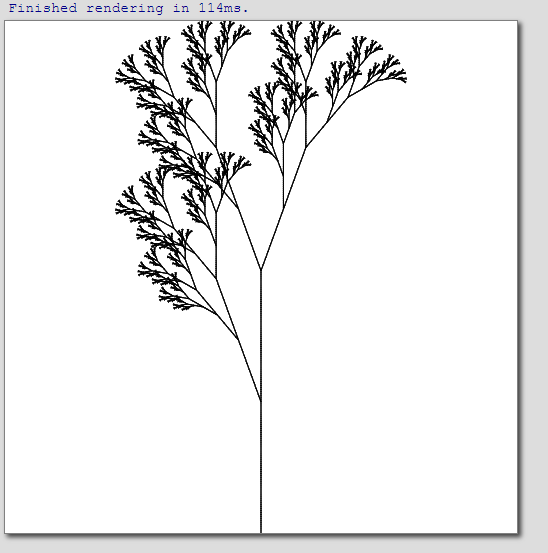
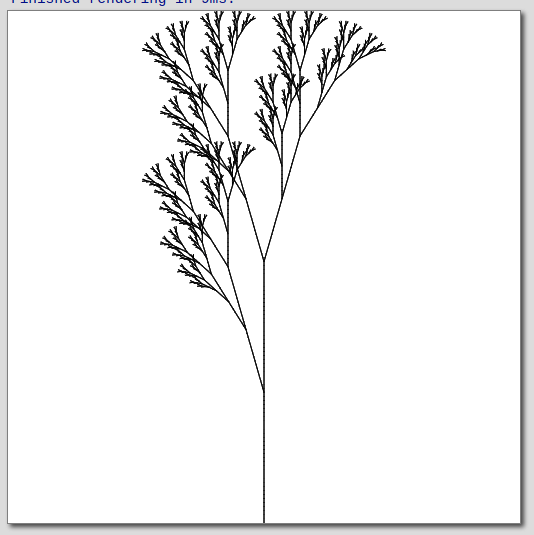
Add major angle pre-calculation.

Changed region(s): [[0.0, 0.0, 0.9888, 1.0]]

diff --git a/find_matches.py b/find_matches.py
@@ -8,42 +8,32 @@ from match_structures import *
 from image_similarity import is_sample_in_image
 
 _POSSIBLE_MOVES = [(-1, 0), (1, 0), (0, -1), (0, 1)]
-_RANGE_THETA = [-25, 0, 25]
-_RANGE_SCALE = [0.5]
+_RANGE_SCALE = [0.33, 0.5]
 
 
-def find_matches_at_point(image_src, x_start, y_start, threshold):
+_FOUND_SCALE = []
+_FOUND_D_THETA = []
+
+
+def find_matches_at_point(image_src, x_start, y_start, threshold, angle_range):
+    global _FOUND_SCALE
+    global _FOUND_D_THETA
     matches = []
     bottom_center = x_start, y_start
-    for theta in _RANGE_THETA:
-        for scale in _RANGE_SCALE:
-            sub_img = subimage_best(image_src, bottom_center, theta, scale)
-            score = is_sample_in_image(image_src, sub_img)
-            if score > threshold:
-                matches.append(Match(theta, scale, score))
+    for scale in _FOUND_SCALE or _RANGE_SCALE:
+        for theta in angle_range:
+            for d_theta in _FOUND_D_THETA or np.arange(-2.0, 2.0, 1.0):
+                sub_img = subimage_best(image_src, bottom_center, theta + d_theta, scale)
+                score = is_sample_in_image(image_src, sub_img)
+                if score > threshold:
+                    matches.append(Match(theta + d_theta, scale, score))
+                    if not _FOUND_SCALE:
+                        _FOUND_SCALE = [scale]
+                        _FOUND_D_THETA = [d_theta]
+                        print("Scale = {}".format(scale))
+                        print("Theta = {}".format(theta))
+                        break
     return matches
-
-
-# def bypass(image_src, visited, matches, back_color, x, y):
-#     h, w = image_src.shape[:2]
-#     if x < 0 or y < 0 or x >= w or y >= h:
-#         return
-#     if visited[y, x] == 1:
-#         return
-#     if image_src[y, x] != back_color:
-#         visited[y, x] = 1
-#         show_debug_image("Visited", visited, matches, (x, y), wait_time=1)
-#         is_sub_img, theta, scale = find_elem(image_src, x, y)
-#         if is_sub_img:
-#             matches[y, x] = 1
-#             if theta > 0:
-#                 l_system1.append("+")
-#             elif theta < 0:
-#                 l_system1.append("-")
-#             l_system1.append("X")
-#             ######## TO DO : search in the frame ##########
-#         for (dy, dx) in _POSSIBLE_MOVES:
-#             bypass(image_src, visited, matches, back_color, x + dx, y + dy)
 
 
 def valid_position(p, image, background_color, visited):
@@ -52,7 +42,7 @@ def valid_position(p, image, background_color, visited):
     return 0 <= y < h and 0 <= x < w and visited[p] == 0 and image[p] != background_color
 
 
-def search_matches(image_src, start, back_color, similarity_threshold, visual=False):
+def search_matches(image_src, start, back_color, similarity_threshold, angle_range, visual=False):
     visited = np.zeros(image_src.shape[:2])
     match_mask = np.zeros(image_src.shape[:2])
     distances = -np.ones(image_src.shape[:2])
@@ -70,7 +60,7 @@ def search_matches(image_src, start, back_color, similarity_threshold, visual=Fa
         y, x = q.popleft()
         if visual:
             show_debug_image("Visited", visited, match_mask, (x, y), wait_time=1)
-        point_matches = find_matches_at_point(image_src, x, y, similarity_threshold)
+        point_matches = find_matches_at_point(image_src, x, y, similarity_threshold, angle_range)
         if point_matches:
             match_mask[y, x] = 1
             matches[(y,x)] = point_matches
@@ -93,10 +83,23 @@ def find_start(image_src):
     return h-1, x
 
 
-def process_image(input_image, background_color=255, similarity_threshold=0.8, dump_folder=None, visual=False):
+def generate_angle_range(angle):
+    angle_range = [0]
+    current_angle = angle
+    while current_angle < 90:
+        angle_range.insert(0, -current_angle)
+        angle_range.append(current_angle)
+        current_angle += angle
+    return angle_range
+
+
+def process_image(input_image, background_color=255, similarity_threshold=0.7, dump_folder=None, visual=False):
     image_src = load_image(input_image)
     start = find_start(image_src)
-    match_structures, dbg_image = search_matches(image_src, start, background_color, similarity_threshold)
+    major_theta = calculate_major_angle(image_src)
+    angle_range = generate_angle_range(major_theta)
+    print(angle_range)
+    match_structures, dbg_image = search_matches(image_src, start, background_color, similarity_threshold, angle_range, visual=visual)
 
     if dump_folder:
         dump_structures(dump_folder, match_structures)
@@ -120,7 +123,8 @@ def main():
     parser.add_argument('--visual', type=bool, default=False, help='Enable visualization')
 
     args = parser.parse_args()
-    process_image(args.input_image, args.background_color, args.similarity_threshold, args.dump_folder)
+    print(args)
+    process_image(args.input_image, args.background_color, args.similarity_threshold, args.dump_folder, visual=args.visual)
 
 
 if __name__ == "__main__":

diff --git a/l_systems.py b/l_systems.py
@@ -19,10 +19,23 @@ def put_in_braces(str):
     return "[" + str + "]"
 
 
-def process_structures(match_structures):
+def lsystem_to_str(lsystem):
+    angle_str, axiom_str, rule1_str, rule2_str = lsystem
+    l_system_str = "{}{}{}{}".format(angle_str, axiom_str, rule1_str, rule2_str)
+    return l_system_str
+
+
+def process_structures(match_structures, visual=False):
     visited, match_mask, matches, distances = match_structures
 
-    labeled_array, features_num = label(match_mask)
+    if visual:
+        show_structures(match_structures)
+        cv2.imshow("Debug", create_debug_image(visited, match_mask, (0,0)))
+        cv2.waitKey()
+
+    dilation = cv2.dilate(match_mask, np.ones((5,5),np.uint8), iterations=1)
+    labeled_array, features_num = label(dilation, structure=np.ones((3, 3)))
+    labeled_array = labeled_array * match_mask
     if not features_num:
         return ""
 
@@ -31,6 +44,7 @@ def process_structures(match_structures):
         label_mask = labeled_array == label_index
         label_coordinates = np.asarray(np.column_stack(np.ma.where(label_mask)))
         scores = np.zeros_like(match_mask)
+
         for y, x in label_coordinates:
             current_matches = matches[(y, x)]
             scores[y, x] = np.sum([match.score for match in current_matches])
@@ -38,44 +52,51 @@ def process_structures(match_structures):
         filtered_matches[max_score_position] = [matches[max_score_position], distances[max_score_position]]
 
     sorted_match_list = [x[1] for x in sorted(filtered_matches.items(), key=lambda x: x[1][1])]
-    print(sorted_match_list)
+    # print(sorted_match_list)
     current_distance = 0
 
+    all_detected_angles = []
     rule1_str = "X="
     for matches, distance in sorted_match_list:
-        if distance > current_distance:
+        if distance > current_distance + 5:
             rule1_str += "F"
             current_distance = distance
-        sorted_by_angle = sorted(matches, key=lambda m: m.theta)
+        sorted_by_angle = sorted(matches, key=lambda m: -m.theta)
         for match in sorted_by_angle:
-            if match.theta < 0:
-                match_str = "-X"
-            elif match.theta > 0:
+            theta = match.theta
+            all_detected_angles.append(theta)
+            d_theta = 2
+            if theta < -d_theta:
                 match_str = "+X"
+            elif theta > d_theta:
+                match_str = "-X"
             else:
                 match_str = "X"
             rule1_str += put_in_braces(match_str)
 
-    angle = np.max([match.theta for match in current_matches for current_matches in filtered_matches])
+    print(filtered_matches)
+    print(all_detected_angles)
+
+    angle = np.max(all_detected_angles)
     scale = np.max([match.scale for match in current_matches for current_matches in filtered_matches])
 
-    angle_str = str(angle)
-    axiom_str = "X"
-    # rule1_str = "rule1"
-    rule2_str = rule2_from_scale(scale)
+    angle_str = str(angle) + '\n'
+    axiom_str = "X\n"
+    rule1_str = rule1_str + '\n'
+    rule2_str = rule2_from_scale(scale) + '\n'
 
-    l_system_str = "{}\n{}\n{}\n{}".format(angle_str, axiom_str, rule1_str, rule2_str)
-    return l_system_str
+    return [angle_str, axiom_str, rule1_str, rule2_str]
 
 
 def main():
     parser = argparse.ArgumentParser(description='Calculates L-system by fractal image.')
     parser.add_argument('input_folder', type=str, help='Folder with dumped structures after searching matches')
+    parser.add_argument('--visual', type=bool, default=False, help='Enable visualization')
     args = parser.parse_args()
 
     match_structures = load_structures(args.input_folder)
-    l_system_str = process_structures(match_structures)
-    print(l_system_str)
+    angle_str, axiom_str, rule1_str, rule2_str = process_structures(match_structures, visual=args.visual)
+    print(lsystem_to_str([angle_str, axiom_str, rule1_str, rule2_str]))
 
 
 if __name__ == "__main__":

diff --git a/test.py b/test.py
@@ -4,31 +4,56 @@ import find_matches
 import l_systems
 
 
-_TEST_CASES = range(5)
+# _TEST_CASES = range(5)
+_TEST_CASES = [0, 3]
 _TEST_IMAGES = ["images/fractal{}.png".format(i) for i in _TEST_CASES]
 _TEST_LSYSTEMS = ["gt/l-system-{}.txt".format(i) for i in _TEST_CASES]
+
+
+def compare_systems(lsys1, lsys2):
+    print(lsys1)
+    print(lsys2)
+
+    angle1 = float(lsys1[0])
+    angle2 = float(lsys2[0])
+    if abs(angle1 - angle2) > 2.0:
+        return False
+    return lsys1[1:] == lsys2[1:]
+
+
+def load_lsystem(file):
+    with open(file) as f:
+        angle = f.readline()
+        axiom = f.readline()
+        rule1 = f.readline()
+        rule2 = f.readline()
+        return [angle, axiom, rule1, rule2]
 
 
 def main():
     success_cases = 0
     total_cases = 0
-    for image_file, gt_file in zip(_TEST_IMAGES, _TEST_LSYSTEMS):
+    for tc, image_file, gt_file in zip(_TEST_CASES, _TEST_IMAGES, _TEST_LSYSTEMS):
         print(">>>>> Evaluate {} <<<<<".format(image_file))
-        match_structures = find_matches.process_image(image_file)
-        l_system_str = l_systems.process_structures(match_structures)
-        gt_str = open(gt_file).read()
+
+        match_structures = find_matches.process_image(image_file, dump_folder="debug/t{}".format(tc))
+        l_system = l_systems.process_structures(match_structures)
+        gt_lsystem = load_lsystem(gt_file)
+
         print("-------------------------")
         print("Ground truth L-system:")
-        print(gt_str)
+        print(l_systems.lsystem_to_str(gt_lsystem))
         print("-------------------------")
         print("Calculated L-system:")
-        print(l_system_str)
+        print(l_systems.lsystem_to_str(l_system))
         print("-------------------------")
-        if gt_str == l_system_str:
+
+        if compare_systems(gt_lsystem, l_system):
             success_cases += 1
             print("*** Success ***")
         else:
             print("!!! Failure !!!")
+
         total_cases += 1
         print("-------------------------")
 

diff --git a/analyze_image.py b/analyze_image.py
@@ -9,6 +9,55 @@ _VISUALIZATION_STEP = 10
 _counter = 0
 
 
+def line_to_angle(line):
+    x1, y1, x2, y2 = line
+    angle = np.rad2deg(np.arctan2(x1 - x2, y1 - y2))
+    while angle < -90:
+        angle += 180
+    while angle > 90:
+        angle -= 180
+    return angle
+
+
+def line_len(line):
+    x1, y1, x2, y2 = line
+    return math.sqrt((x1 - x2)**2 + (y1 - y2)**2)
+
+
+def calculate_major_angle(image_src):
+    lines, width, prec, nfa = cv2.createLineSegmentDetector().detect(image_src)
+    # line_len_threshold = max(image_src.shape[:2]) // 30
+    line_len_threshold = 8
+
+    filtered_lines = filter(lambda l: line_len(l) > line_len_threshold, map(lambda l: l[0], lines))
+
+    angles = [line_to_angle(line) for line in filtered_lines]
+    hist = np.histogram(angles, bins=range(-90, 90))
+
+    sorted_angles = sorted(zip(hist[1], hist[0]), key=lambda x: -x[1])
+    sorted_angles = list(filter(lambda pair: pair[1] > 2, sorted_angles))
+    sorted_angles = sorted(sorted_angles[:10], key=lambda pair: pair[0])
+
+    min_angle = 5
+    negative_angles = list(filter(lambda x: x < -min_angle, [a[0] for a in sorted_angles]))
+    positive_angles = list(filter(lambda x: x > min_angle, [a[0] for a in sorted_angles]))
+    negative_candidate_angle = max(negative_angles or [None])
+    positive_candidate_angle = min(positive_angles or [None])
+
+    # print(negative_candidate_angle)
+    # print(positive_candidate_angle)
+
+    if negative_candidate_angle is None:
+        major_angle = positive_candidate_angle
+    elif positive_candidate_angle is None:
+        major_angle = negative_candidate_angle
+    elif abs(negative_candidate_angle + positive_candidate_angle) < min_angle:
+        major_angle = (positive_candidate_angle - negative_candidate_angle) / 2
+    else:
+        major_angle = min([positive_candidate_angle, -negative_candidate_angle])
+    return major_angle
+
+
 def load_image(path):
     image = cv2.imread(path, cv2.IMREAD_GRAYSCALE)
     h, w = image.shape[:2]
